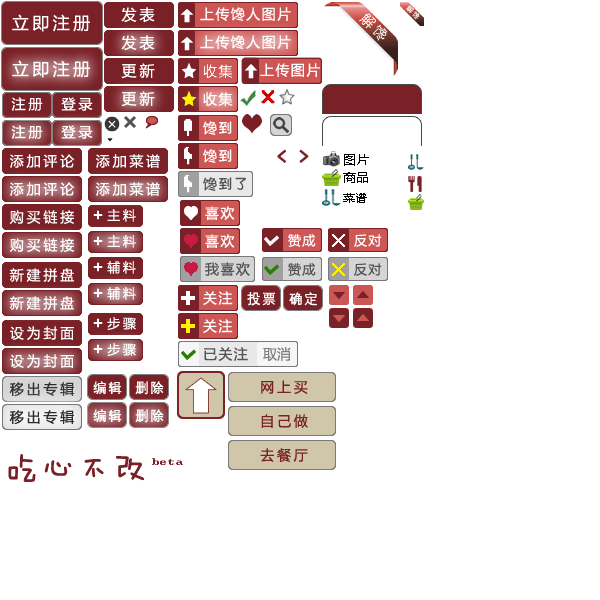
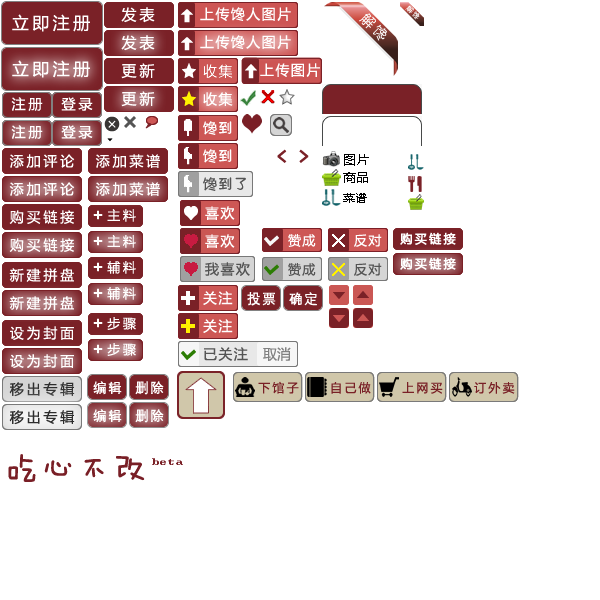
redo solutions

Changed region(s): [[0.36, 0.6, 0.87, 0.81], [0.63, 0.36, 0.78, 0.48]]

diff --git a/app/assets/stylesheets/buttons.css.scss b/app/assets/stylesheets/buttons.css.scss
@@ -33,7 +33,7 @@ input.btn:hover {
 }
 
 a.btn {
-    display: block;
+    display: inline-block;
     border:0 none;
     background: url("buttons.png") 0 0 no-repeat;
     text-indent:-9999px;
@@ -200,13 +200,13 @@ a.btn.btn_edit:hover{
 }
 
 .btn.btn_buy{
-    width:80px;
-    height:26px;
-    background-position: -2px -204px;
+    width:70px;
+    height:22px;
+    background-position: -393px -228px;
 }
 
 .btn.btn_buy:hover{
-    background-position: -2px -232px;
+    background-position: -393px -253px;
 }
 
 .btn.btn_vote.to_like {
@@ -324,25 +324,37 @@ a.btn.btn_edit:hover{
 }
 
 .btn.btn_product_solution {
-    width: 108px;
+    width: 70px;
     height: 30px;
-    background-position: -228px -372px;
+    background-position: -377px -372px;
 }
 
 .btn.btn_recipe_solution {
-    width: 108px;
+    width: 70px;
     height: 30px;
-    background-position: -228px -406px;
+    background-position: -305px -372px;
 }
 
 .btn.btn_place_solution {
-    width: 108px;
+    width: 70px;
     height: 30px;
     opacity: 0.5;
-    background-position: -228px -440px;
+    background-position: -233px -372px;
 }
 
+
 .btn.btn_place_solution:hover {
+    cursor: default;
+}
+
+.btn.btn_order_solution {
+    width: 70px;
+    height: 30px;
+    opacity: 0.5;
+    background-position: -449px -372px;
+}
+
+.btn.btn_order_solution:hover {
     cursor: default;
 }
 
@@ -356,18 +368,18 @@ a.btn.btn_edit:hover{
 .btn.btn_positive {
     width: 20px;
     height: 20px;
-    background-position: -329px -285px;
+    background-position: -353px -285px;
 }
 
-.btn.btn_positive.voted { background-position: -329px -308px; }
+.btn.btn_positive.voted { background-position: -353px -308px; }
 
 .btn.btn_negative {
     width: 20px;
     height: 20px;
-    background-position: -353px -285px;
+    background-position: -329px -285px;
 }
 
-.btn.btn_negative.voted { background-position: -353px -308px; }
+.btn.btn_negative.voted { background-position: -329px -308px; }
 
 .btn.btn_ok {
     width: 38px;

diff --git a/app/assets/javascripts/comments.js b/app/assets/javascripts/comments.js
@@ -30,3 +30,21 @@ $(function() {
         }
     });
 });
+
+function shift_comments_group(link, delta) {
+    var index_counter = $(".current_comments_group_index");
+    var current_index = parseInt(index_counter.data('current_index'));
+    var max_index = parseInt(index_counter.data('max_index'));
+
+    var new_index = current_index + delta;
+    new_index = (new_index < max_index) ? new_index : 0;
+    new_index = (new_index >= 0) ? new_index : (max_index - 1)
+
+    $(".comments_group.display_block").addClass("display_none");
+    $(".comments_group.display_block").removeClass("display_block");
+
+    $(".comments_group." + new_index).addClass("display_block");
+    $(".comments_group." + new_index).removeClass("display_none");
+    index_counter.text(new_index + 1);
+    index_counter.data('current_index', new_index);
+}

diff --git a/app/assets/javascripts/desires.js b/app/assets/javascripts/desires.js
@@ -223,7 +223,7 @@ function review_solution()
 
     var new_item_id = $(".solution_fields .new_solution_item_id").text();
 
-    var existed_items = $(".solutions_container .existed_solution_item_id." + new_item_id);
+    var existed_items = $(".listed_item .existed_solution_item_id." + new_item_id);
 
     if(existed_items.length > 0){
         alert("已存在类似的解馋攻略哦");

diff --git a/app/controllers/desires_controller.rb b/app/controllers/desires_controller.rb
@@ -29,18 +29,18 @@ class DesiresController < ApplicationController
   # GET /desires/1.json
   def show
     @related_desires = Desire.tagged_with(@desire.tags).excludes(id: @desire.id).desc(:created_at).limit(9)
-    @solutions = @desire.solutions.desc(:votes, :created_at).reject{|s| s.item.nil? } #.uniq{|s| s.identity} #.to_a.reject{|s| s.item.blank? || s.item.get_image_url.blank?}
+    @solutions = @desire.solutions.desc(:votes, :created_at).page(params[:page]).per(ITEMS_PER_PAGE_FEW) #.uniq{|s| s.identity} #.to_a.reject{|s| s.item.blank? || s.item.get_image_url.blank?}
 
     #votes = @solutions.inject([]){|memo, s| memo | s.votes }.sort{|x, y| y.created_at <=> x.created_at}
     #@my_vote = votes.select{|v| v.voter_id == current_user.id.to_s}.first if current_user
 
     #dummy ojbect for new_solution_field
-    dummy = Solution.new
-    if @solutions.empty?
-      @solutions += [dummy]
-    else
-      @solutions = @solutions.each_slice(8).inject([]){|memo, group| memo + (group << dummy)}
-    end
+    #dummy = Solution.new
+    #if @solutions.empty?
+    #  @solutions += [dummy]
+    #else
+    #  @solutions = @solutions.each_slice(8).inject([]){|memo, group| memo + (group << dummy)}
+    #end
 
     respond_to do |format|
       format.html # show.html.erb
@@ -141,26 +141,6 @@ class DesiresController < ApplicationController
       else
         format.js { head :unprocessable_entity }
       end
-    end
-  end
-
-  def vote
-    #@desire = Desire.find(params[:id])
-    solution = Solution.find(params[:solution_id])
-    #solution.voter_ids << current_user.id.to_s unless solution.voter_ids.include? current_user.id.to_s
-    desire = solution.desire
-    unless desire.voter_ids.include?(current_user.id)
-      vote = solution.votes.create(params[:vote]) do |v|
-        v.voter_id = current_user.id.to_s
-      end
-
-      RewardManager.reward_for_vote(solution, current_user)
-      desire.check_solutions
-    end
-
-    respond_to do |format|
-      format.html { redirect_to(:back, notice: t("notices.soluton_voted")) }
-      format.js
     end
   end
 

diff --git a/app/controllers/comments_controller.rb b/app/controllers/comments_controller.rb
@@ -1,5 +1,6 @@
 class CommentsController < ApplicationController
   before_filter { |c| c.require_permission :normal_user }
+  #before_filter(:only => [:toggle, :delete]) {|c| @comment.present? && c.the_author_himself(@comment, true, true)}
   before_filter :find_item
 
   #used for un-javascript
@@ -47,6 +48,15 @@ class CommentsController < ApplicationController
     @comment = @item.comments.find(params[:id])
     @comment.enabled = !@comment.enabled
     @comment.save
+
+    respond_to do |format|
+        format.js {render :content_type => 'text/javascript'}
+    end
+  end
+
+  def delete
+    @comment = @item.comments.find(params[:id])
+    @comment.delete
 
     respond_to do |format|
         format.js {render :content_type => 'text/javascript'}

diff --git a/app/controllers/solutions_controller.rb b/app/controllers/solutions_controller.rb
@@ -27,7 +27,7 @@ class SolutionsController < ApplicationController
     @solution.destroy
 
     respond_to do |format|
-      format.html { redirect_to desires_url }
+      format.html { redirect_to :back }
       format.json { head :ok }
     end
   end

diff --git a/config/routes.rb b/config/routes.rb
@@ -56,6 +56,7 @@ Yin11::Application.routes.draw do
   resources :comments do
     member do
       put "toggle"
+      put "delete"
     end
   end
 
